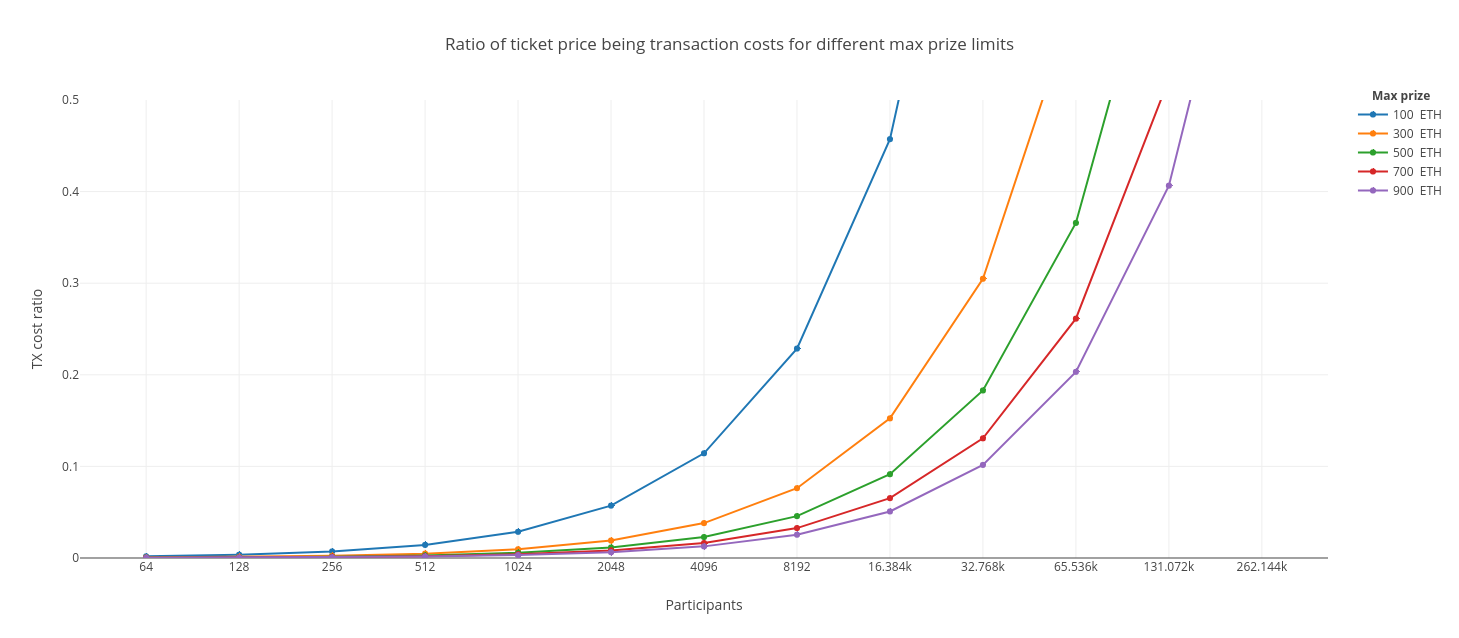
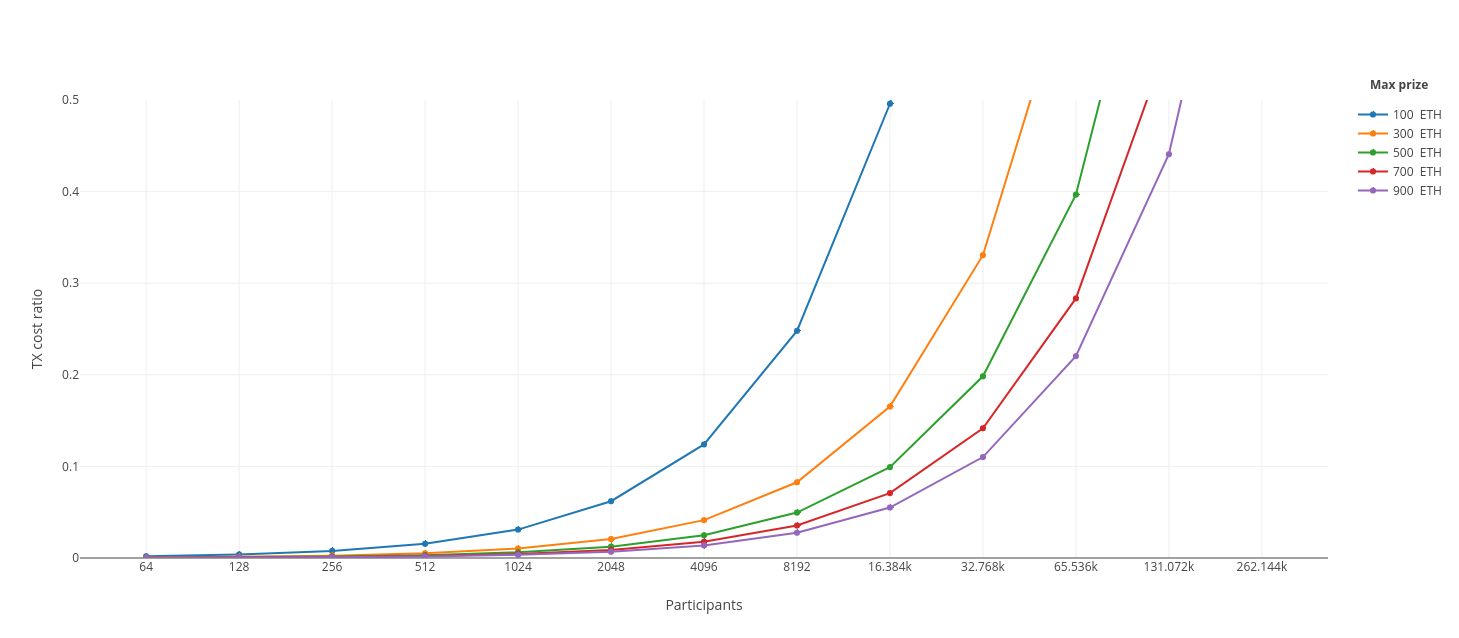
Update document to reflect using default winner in matches.

diff --git a/inc/3-implementation/1-outline.tex b/inc/3-implementation/1-outline.tex
@@ -13,7 +13,7 @@ Say we have Alice and Bob conducting a digital coin toss with commitments $C_A$ 
 
 \begin{figure}[htbp]
   \centering
-  \includesvg[width=\columnwidth]{figures/digital_coin_toss_flow.svg}
+  \includesvg[width=\columnwidth]{figures/digital_coin_toss_default_winner_flow.svg}
   \caption{Flowchart of a digital coin toss}
   \label{fig:digital-coin-toss-flow}
 \end{figure}
@@ -21,9 +21,9 @@ Say we have Alice and Bob conducting a digital coin toss with commitments $C_A$ 
 \subsubsection{Tournament of coin tosses}
 A digital coin toss can determine a winner out of two players, but can we use the same mechanism to determine a winner when there are more than two participants? We can construct a tournament of matches where the winner of each match is determined by a digital coin toss. The tournament can be represented as a full binary tree where the root node is the final match, whose winner is the winner of the entire tournament. Winning any other match will make one advance to a match one step closer to the final match. The players of each match in an internal node is determined by the winners from each of its two children. Participants in the tournament are represented as an ordered set, and each participant is assigned as a player to exactly one leaf node match. 
 
-Such a tournament will have $N=2^L$ players where $L$ is the height of the binary tree representing the tournament. There will be $\frac{N}{2}$ leaf node matches and $N-1$ matches in total. We call matches with the same height in the binary tree \emph{levels} in the tournament. Matches with the same level can be played concurrently and independent of each other, but internal matches of level $l$ cannot be played before all matches in level $l-1$ are determined.
+Such a tournament will have $N=2^L$ players where $L$ is the height of the binary tree representing the tournament. There will be $\frac{N}{2}$ leaf node matches and $N-1$ matches in total. We call matches with the same height in the binary tree \emph{levels} in the tournament. Matches with the same level can be played concurrently and independently of each other, but internal matches of level $l$ cannot be played before all matches in level $l-1$ are determined.
 
-It may be the case that one or both players in a match fail to complete the digital coin toss in a match. Matches of each level in the tournament will be initialized with global time limits for when players have to have completed a certain procedure, such as making a commitment or reveal. If only one of the players fails to e.g. reveal their secret before the relevant time limit, that will be interpreted as a forfeiture, and the other player will win the match. If both players fail to complete the same procedure, e.g. if neither player makes a commitment before the commitment time limit, the match will have an undefined winner. If the final match has an undefined winner, the tournament will also have an undefined winner. If the match is not the final match, a match in the next level can have one player who is undefined. In that case, the only determined player will win by default.
+It may be the case that one or both players in a match fail to complete the digital coin toss in a match. Matches of each level in the tournament will be initialized with global time limits for when players have to have completed a certain procedure, such as making a commitment or reveal. If only one of the players fails to e.g. reveal their secret before the relevant time limit, that will be interpreted as a forfeiture, and the other player will win the match. If both players fail to complete the same procedure, e.g. if neither player makes a commitment before the commitment time limit, a default winner will be selected to ensure each match has a defined winner by the last time limit. The default winner behaviour makes sure that the lottery will always have a defined winner, but will not affect an honest player who follows the coin toss protocol.
 
 \begin{figure}[htbp]
   \centering
@@ -37,7 +37,7 @@ It may be the case that one or both players in a match fail to complete the digi
 \subsubsection{Why the tournament is not deterministic}  % Because of time outs
 It's worth taking a moment to consider the implications of the timeout conditions in the tournament. Ideally, both players in each match will perform the digital coin toss. Since the secrets in the coin toss are committed to, if we assume both secrets will be revealed, there is just one possible outcome of the match. However, either one player fails to reveal their secret by the timeout, then the other player will win. The consequence of this being that a match is not deterministic when commitments are made. Only when both players have reveal their secrets or the timeout happens can the result be determined. 
 
-This means that even if all players commit to secrets for each level of the tournament prior to playing a single match, any player can actually end up winning independently of the secrets as it can be up to who times out in which matches. Note that if we assume that all players will perform the coin toss successfully, then the tournament is completely deterministic once all commitments have been made, and there is just one single valid winner for that particular ordered set of players and commitments. If that were the case, we could even use a single commitment and secret from each player that would be used for each level of the tournament. If players can choose whether to reveal their secret or not, we cannot reuse secrets from one match to another, as will be demonstrated in the following paragraph.
+This means that even if all players commit to secrets for each level of the tournament prior to playing a single match, any player can actually end up winning independently of the secrets as the outcome can depend on who times out in which matches. Note that if we assume that all players will perform the coin toss successfully, then the tournament is completely deterministic once all commitments have been made, and there is just one single valid winner for that particular ordered set of players and commitments. If that were the case, we could even use a single commitment and secret from each player that would be used for each level of the tournament. If players can choose whether to reveal their secret or not, we cannot reuse secrets from one match to another, as will be demonstrated in the following below.
 
 \subsubsection{How to exploit a non-deterministic tournament}  % Why we need different commitments for each level
 In a practical implementation of the tournament, we would have to have timeouts to avoid the protocol halting. We must also assume that players can be colluding. In a collusion, each player would know each others secret, so they would know who would win against whom. If we simply used the same secret for matches in all levels, then even if the result is unpredictable before all players have revealed, a collusion could wait for all the non-colluding players to reveal, then tactically choose which players of the collusion should reveal, so that they are guaranteed to win matches in subsequent levels. Because of this, unless we can assume no collusion, we must require players to commit to different secrets in each match, and by that make the protocol interactive.
@@ -49,7 +49,7 @@ We implement a lottery that uses a tournament of coin tosses to fairly determine
 \subsubsection{Set up phase}
 The tournament will be implemented as separate match contracts that each represent a match in the tournament tree. The matches are initialized with data that allows them to determine who its players are. Internal matches are initialized with two references to contracts in the previous level of the tournament, and it will call a \texttt{getWinner()} method from these contracts to determine who its players are. Leaf node matches, which we will call first level matches, are initialized with an index that corresponds to a player in the ordered set of players. The leaf node matches have a reference to a master contract, which they will call to retrieve the players that are assigned to the match.
 
-While the match contracts form a tournament on their own, we need a contract to keep track of the state of the lottery and handle things such as taking deposits, maintaining the set of participants, and verifying who can claim the prize. This is a separate contract called the master contract. The master contract is initialized with the number of participants the lottery can have, which must be a power of 2, a price participants must pay in order to join, a start time $t_{start}$, and an end time $t_{final}$. To be able to verify the winner of the tournament, the master contract needs a reference to the final match contract. The entire lottery is set up by first deploying the master contract without a reference to the final match, as it has not been deplyed yet. The match contracts will be deployed level for level, starting with the first level contracts. When the final match is deployed, the lottery will be initialized by setting the final match in the master contract. 
+While the match contracts form a tournament on their own, we need a contract to keep track of the state of the lottery and handle things such as taking deposits, maintaining the set of participants, and verifying who can claim the prize. This is a separate contract called the master contract. The master contract is initialized with the number of participants the lottery can have, which must be a power of 2, a price participants must pay in order to join, a start time $t_{start}$, and an end time $t_{final}$. To be able to verify the winner of the tournament, the master contract needs a reference to the final match contract. The entire lottery is set up by first deploying the master contract without a reference to the final match, as it has not been deployed yet. The match contracts will be deployed level for level, starting with the first level contracts. When the final match is deployed, the lottery will be initialized by setting the final match in the master contract. 
 
 
 \subsubsection{Deposit phase}
@@ -58,9 +58,9 @@ Once the master contract and all the match contracts are set up correctly, any p
 Deposits will be possible as long as the lottery is not full and a start time is not yet reached. The lottery is full once the amount of deposits has reached the predefined number of participants. If the lottery is not full by the start time, the lottery will not be able to start. If the lottery is full by the start time, the lottery moves into the next phase.
 
 \subsubsection{Playing phase}
-Each leaf node match contract should have a time $t_{commit}$ which is equal to the start time of the lottery by when players can make commitments to the digital coin toss. $t_{reveal}$ is some time later when players can make a reveal transaction with their secret which is validated in the match smart contract. The last time field of a match contract is $t_{play}$ by when it's no longer possible to reveal and the match is determined. When the match is determined, the method \texttt{getWinner()} will return either a player address or the null address. If the current time is less than $t_{play}$, this method will raise an error.
+Each leaf node match contract should have a time $t_{commit}$ which is equal to the start time of the lottery by when players can make commitments to the digital coin toss. $t_{reveal}$ is some time later when players can make a reveal transaction with their secret which is validated in the match smart contract. The last time field of a match contract is $t_{play}$ by when it's no longer possible to reveal and the match is determined. When the match is determined, the method \texttt{getWinner()} will return a player address. If the current time is less than $t_{play}$, this method will raise an error. If there is a stalemate in the match, i.e. neither player makes a commitment, the \texttt{getWinner()} method will return a default winner. The default winner is the first player in the match, i.e. the left player in the tournament tree. 
 
 Internal match nodes should have a $t_{commit}$ equal to the $t_{play}$ limit of matches in the level below. As mentioned, each internal match node has a reference to matches from the previous levels from where the winning player is eligible to play the current match. This way the tournament proceeds level by level with time limits defined at contract initialization. Players will need to make transactions to the match contracts which validate the sender and the inputs. The final match will be played just like any other match, but the master contract will have a reference to this match, so that it can validate the winner.
 
 \subsubsection{Withdrawal phase}
-Players can send a transaction to the withdraw function of the master contract. If the final match has a winner, it will transfer the balance of the master contract to the sender after validating that the sender is the same account as the winner. If a time limit $t_{final}$ is reached, and the winner of the final match is not determined, players can withdraw their initial deposit, as the lottery is considered undetermined.
+Players can send a transaction to the withdraw function of the master contract. If the final match has a winner, it will transfer the balance of the master contract to the sender after validating that the sender is the same account as the winner. If the $tStart$ time limit has passed and the lottery is not full, the lottery did not get enough players to start. In this case, the \texttt{withdraw()} method will return the deposit to the sender if they have made a deposit.

diff --git a/inc/4-results/1-gas-usage.tex b/inc/4-results/1-gas-usage.tex
@@ -8,24 +8,24 @@
 \begin{tabular}{|l|l|l|l|}
 \hline
 
-transaction & first design & second design & \# \\ \hline
-create LotteryMaster & 1176518 & 1176518 & 1 \\ \hline
+transaction & single match & dual match & \# \\ \hline
+create LotteryMaster & 1087189 & 1087125 & 1 \\ \hline
 setFinalMatch & 49282 & 49282 & 1 \\ \hline
-create LotteryMatch & 2148144 & - & N-1 \\ \hline
-create FirstLevelMatch & - & 967850 & N/2 \\ \hline
-create InternalMatch & - & 991533 & (N/2)-1 \\ \hline
-initFirstLevelMatch & 73877 & - & N/2 \\ \hline
-initInternalMatch & 71038 & - & (N/2)-1 \\ \hline
-deposit & 74891 & 82616 & N \\ \hline
-commit & 83394 & 77272 & 2(N-1) \\ \hline
-reveal & 43038 & 42885 & 2(N-1) \\ \hline
-withdraw & 38796 & 32998 & 1 \\ \hline
+create LotteryMatch & 2472237 & - & N-1 \\ \hline
+create FirstLevelMatch & - & 1693728 & N/2 \\ \hline
+create InternalMatch & - & 1697819 & (N/2)-1 \\ \hline
+initFirstLevelMatch & 74700 & - & N/2 \\ \hline
+initInternalMatch & 71034 & - & (N/2)-1 \\ \hline
+deposit & 73925 & 73925 & N \\ \hline
+commit & 83548 & 88668 & 2(N-1) \\ \hline
+reveal & 43035 & 42882 & 2(N-1) \\ \hline
+withdraw & 39277 & 39177 & 1 \\ \hline
 
 \end{tabular}
 \end{table}
 
 \noindent
-Table \ref{tab:gas-usage} is a list of transactions made in a simulation with 64 participants. The left column describes the transaction made, while the right column is the number of transactions of this type needed to successfully play a lottery. The middle columns are the average gas usage for each transaction for two different lottery designs. In the first design, we use a single match contract for all types of matches whether they are first level or internal. In the second design, we have two separate match contracts for first level matches and internal matches. 
+Table \ref{tab:gas-usage} is a list of transactions made in a simulation with 256 participants. The left column describes the transaction made, while the right column is the number of transactions of this type needed to successfully play a lottery. The middle columns are the average gas usage for each transaction for two different lottery designs. In the first design, we use a single match contract for all types of matches whether they are first level or internal. In the second design, we have two separate match contracts for first level matches and internal matches. 
 
 \begin{table}[h]
 \centering
@@ -35,10 +35,10 @@ Table \ref{tab:gas-usage} is a list of transactions made in a simulation with 64
 \hline
 
 N & Gas & ETH & USD & Gas / N & ETH / N & USD / N \\ \hline
-32 & 70065854 & 0,105 & 18,50 & 2189558 & 0,003284 & 0,578 \\ \hline
-64 & 141139966 & 0,212 & 37,26 & 2205312 & 0,003308 & 0,582 \\ \hline
-128 & 283296254 & 0,425 & 74,79 & 2213252 & 0,003320 & 0,584 \\ \hline
-256 & 567601662 & 0,851 & 149,85 & 2217194 & 0,003326 & 0,585 \\ \hline
+32 & 80023408 & 0.120 & 21.13 & 2500732 & 0.003751 & 0.660 \\ \hline
+64 & 161466448 & 0.242 & 42.63 & 2522913 & 0.003784 & 0.666 \\ \hline
+128 & 324354704 & 0.487 & 85.63 & 2534021 & 0.003801 & 0.669 \\ \hline
+256 & 650139920 & 0.975 & 171.64 & 2539609 & 0.003809 & 0.670 \\ \hline
 
 \end{tabular}
 \end{table}
@@ -51,10 +51,10 @@ N & Gas & ETH & USD & Gas / N & ETH / N & USD / N \\ \hline
 \hline
 
 N & Gas & ETH & USD & Gas / N & ETH / N & USD / N \\ \hline
-32 & 80339905 & 0,121 & 21,21 & 2510622 & 0,003766 & 0,663 \\ \hline
-64 & 161879965 & 0,243 & 42,74 & 2529374 & 0,003794 & 0,668 \\ \hline
-128 & 324963381 & 0,487 & 85,79 & 2538776 & 0,003808 & 0,670 \\ \hline
-256 & 651135921 & 0,977 & 171,90 & 2543500 & 0,003815 & 0,671 \\ \hline
+32 & 90297000 & 0.135 & 23.84 & 2821781 & 0.004233 & 0.745 \\ \hline
+64 & 182203802 & 0.273 & 48.10 & 2846934 & 0.004270 & 0.752 \\ \hline
+128 & 366020720 & 0.549 & 96.63 & 2859537 & 0.004289 & 0.755 \\ \hline
+256 & 733661484 & 1.100 & 193.69 & 2865865 & 0.004299 & 0.757 \\ \hline
 
 \end{tabular}
 \end{table}
@@ -67,10 +67,10 @@ N & Gas & ETH & USD & Gas / N & ETH / N & USD / N \\ \hline
 \hline
 
 N & Gas & ETH & USD & Gas / N & ETH / N & USD / N \\ \hline
-32 & 49066037 & 0,074 & 12,95 & 1533314 & 0,002300 & 0,405 \\ \hline
-64 & 98473301 & 0,148 & 26,00 & 1538645 & 0,002308 & 0,406 \\ \hline
-128 & 197288085 & 0,296 & 52,08 & 1541313 & 0,002312 & 0,407 \\ \hline
-256 & 394917077 & 0,592 & 104,26 & 1542645 & 0,002314 & 0,407 \\ \hline
+32 & 53690344 & 0.081 & 14.17 & 1677823 & 0.002517 & 0.443 \\ \hline
+64 & 107956984 & 0.162 & 28.50 & 1686828 & 0.002530 & 0.445 \\ \hline
+128 & 216490200 & 0.325 & 57.15 & 1691330 & 0.002537 & 0.447 \\ \hline
+256 & 433556696 & 0.650 & 114.46 & 1693581 & 0.002540 & 0.447 \\ \hline
 
 \end{tabular}
 \end{table}
@@ -83,10 +83,10 @@ N & Gas & ETH & USD & Gas / N & ETH / N & USD / N \\ \hline
 \hline
 
 N & Gas & ETH & USD & Gas / N & ETH / N & USD / N \\ \hline
-32 & 59273154 & 0,089 & 15,65 & 1852286 & 0,002778 & 0,489 \\ \hline
-64 & 119076700 & 0,179 & 31,44 & 1860573 & 0,002791 & 0,491 \\ \hline
-128 & 238682928 & 0,358 & 63,01 & 1864710 & 0,002797 & 0,492 \\ \hline
-256 & 477895776 & 0,717 & 126,16 & 1866780 & 0,002800 & 0,493 \\ \hline
+32 & 63896706 & 0.096 & 16.87 & 1996772 & 0.002995 & 0.527 \\ \hline
+64 & 128557218 & 0.193 & 33.94 & 2008707 & 0.003013 & 0.530 \\ \hline
+128 & 257880692 & 0.387 & 68.08 & 2014693 & 0.003022 & 0.532 \\ \hline
+256 & 516523956 & 0.775 & 136.36 & 2017672 & 0.003027 & 0.533 \\ \hline
 
 \end{tabular}
 \end{table}
@@ -95,7 +95,7 @@ N & Gas & ETH & USD & Gas / N & ETH / N & USD / N \\ \hline
 Table \ref{tab:org-gas-usage-single} and \ref{tab:total-gas-usage-single} show the gas usage of only setting up and setting and playing a full lottery, respectively, for the design with a single type of match contract. Table Table \ref{tab:org-gas-usage-dual} and \ref{tab:total-gas-usage-dual} show the gas usage for the design with two types of match contracts, also showing for only setting up and setting up and playing a full lottery.
 The dual match design compared to the single match design uses 44\% less gas to set up, and 36\% less gas to set up and play. As we can see in Table \ref{tab:gas-usage}, the savings come from deploying the match contracts. This is because we deploy less bytecode and declare fewer variables with the dial match design.
 
-As was expected, the gas usage scales linearly with the number of participants. The gas usage increases by a miniscule amount per participant. For simulating the entire lifecycle of a lottery, this can be explained by the \texttt{deposit()} function which keeps expanding a dynamic array as players join.
+As was expected, the gas usage scales linearly with the number of participants. The gas usage increases by a minuscule amount per participant. For simulating the entire lifecycle of a lottery, this can be explained by the \texttt{deposit()} function which keeps expanding a dynamic array as players join.
 
 We see that by far most gas is spent on deploying each individual match contract. This cost was significantly decreased by splitting the match contracts into two types, the \texttt{FirstLevelMatch} and \texttt{InternalMatch}. This is because each variable and each bit of bytecode contributes to the gas usage when deploying contracts. Decreasing the number of methods, decreasing the number and size of variables, and decreasing the number of instructions, i.e. lines of code, will decrease the gas usage. Since each match contract is not interacted with much – at most four times, two commits and two reveals – it seems wasteful to spend so much gas on deploying them on the blockchain permanently. This is a well-known issue, and it is possible to deduplicate common behaviour by using patterns involving \emph{library contracts} and \emph{proxy contracts}. \cite{lu_solidity_2018} demonstrate that gas usage for deploying contracts can decrease as much as 50\% by using these patterns. It could also be possible to do away with the dedicated match contracts completely, and handle everything in the master contract, but we leave that to future work or a practical implementation.
 

diff --git a/inc/3-implementation/2-code.tex b/inc/3-implementation/2-code.tex
@@ -3,7 +3,7 @@
 
 The only smart contracts used in the lottery are the master contract and the two types of match contracts – first level match contracts and internal match contracts, all of which are implemented as Solidity programs. Solidity is a high level language that compiles to EVM bytecode. Deploying a smart contract on Ethereum is done by making a special deployment transaction that contains the contract's compiled bytecode. A deployed contract is identified by a unique address that is assigned when the deployment transaction is made.
 
-Setting up the lottery is a multi step process that must happen in a specific order. First, the master contract needs to be deployed, then the first level match contracts which are all initialized with the address of the master contract are deployed. Internal match contracts from the same level in the tournament tree can be deployed at the same time, but match contracts of each level need a reference to matches from the previous level, which means matches from each level must be deployed in sequence. In order to manage this process, we have made a script to automate it. The smart contracts and deployment scripts also have associated unit tests and a simulation suite.
+Setting up the lottery is a multi-step process that must happen in a specific order. First, the master contract needs to be deployed, then the first level match contracts which are all initialized with the address of the master contract are deployed. Internal match contracts from the same level in the tournament tree can be deployed at the same time, but match contracts of each level need a reference to matches from the previous level, which means matches from each level must be deployed in sequence. In order to manage this process, we have made a script to automate it. The smart contracts and deployment scripts also have associated unit tests and a simulation suite.
 
 The listings included here have been truncated somewhat and are not necessarily compilable code. See the Github repository~\footnote{\url{https://github.com/viktorfa/lottery-truffle}} and appendix for full working code.
 
@@ -12,7 +12,6 @@ The listings included here have been truncated somewhat and are not necessarily 
 
 The constructor of this contract takes the number of participants, the price of participation, a start time and an end time. It is only possible to make a deposit after the final match of the lottery is set. The \texttt{finalMatch} field is a reference to a match contract which is the apex of the tournament tree of matches. This field cannot be set on deployment, as the matches in the tournament need a reference to a master contract, and the master contract needs a reference to a match contract. Due to this circular dependency, either all the matches of the first level or the single master contract need a two-step initialization. Since the gas usage of a single transaction is less than that of many, we choose to have the two-step initialization in the single master contract.
 
-By the time set in \texttt{tFinal}, all the matches in the tournament are supposed to be played. If after that time, there is no winner of the final match, then players will be able to withdraw their deposit, as the lottery was unable to complete. If the final match does return an address, then the owner of that address will be able to withdraw the entire balance of the master contract.
 
 \lstinputlisting[language={Solidity}, caption={Lottery master contract}, label={lst:LotteryMaster.sol}]{listings/LotteryMaster.sol}
 
@@ -22,9 +21,9 @@ Due to slightly different behaviour between matches of the first level of the to
 
 A match has two players referenced by address in the \texttt{alice} and \texttt{bob} fields. By a start time \texttt{tCommit}, the players can set a commitment of bits with the \texttt{commit()} method. Another time limit is set in \texttt{tReveal} which is when making commitments is no longer possible, but revealing the secret committed to is possible. This is done with the \texttt{reveal()} method which verifies that the secret is the preimage of the commitment, and stores the secret in storage. The final time limit is \texttt{tPlay}, after which players can no longer reveal secrets. By the final limit the outcome of the match is guaranteed to be determined. 
 
-The \texttt{getWinner()} method performs the digital coin toss if both players have revealed their secrets. If either player has performed more steps than the other player, e.g. made a commitment while the other has not, the player who has done the most steps will win. If neither player has revealed their secrets, and no player has performed more steps than the other, then the winner of the match will be returned as the null address.
+The \texttt{getWinner()} method performs the digital coin toss if both players have revealed their secrets. If either player has performed more steps than the other player, e.g. made a commitment while the other has not, the player who has done the most steps will win. If neither player has revealed their secrets, and no player has performed more steps than the other, then the winner of the match will be the left player by default.
 
-A match has a way to determine which players are eligible to play it. This is handled differently in \texttt{FirstLevelMatch} and \texttt{InternalMatch}. The former is initialized with an index and a reference to a \texttt{LotteryMaster} contract. Each player in the master contract is indexed so that each player is paired with another who is their opponent in the match of the first level. The latter is initialized with a reference to two matches, \texttt{left} and \texttt{right}, of the previous level in the tournament. These matches will return their winner in the \texttt{getWinner()} method, which is used to determine the players of the match in the next level. If a previous match returns the null address as the winner as either left or right, then the match will be won by the only player if they just perform the commit step.
+A match has a way to determine which players are eligible to play it. This is handled differently in \texttt{FirstLevelMatch} and \texttt{InternalMatch}. The former is initialized with an index and a reference to a \texttt{LotteryMaster} contract. Each player in the master contract is indexed so that each player is paired with another who is their opponent in the match of the first level. The latter is initialized with a reference to two matches, \texttt{left} and \texttt{right}, of the previous level in the tournament. These matches will return their winner in the \texttt{getWinner()} method, which is used to determine the players of the match in the next level. 
 
 \lstinputlisting[language={Solidity}, caption={Common code for lottery match}, label={lst:CommonMatchCode.sol}]{listings/CommonMatchCode.sol}
 \lstinputlisting[language={Solidity}, caption={Lottery first level match contract}, label={lst:FirstLevelMatch.sol}]{listings/FirstLevelMatch.sol}

diff --git a/inc/4-results/5-scalability.tex b/inc/4-results/5-scalability.tex
@@ -81,12 +81,12 @@ There are plans for Ethereum to increase the number of transactions it can handl
 
 \subsection{Transaction costs and max prize}
 
-Due to the size of the prize increasing linearly with the number of participants, a censorship attack by miners gets more profitable the more participants there are, which puts a limit on scalability. Even if a censorship attack is unlikely to succeed, it cannot be ignored when it can give high rewards to dishonest miners. Since the lottery prize is decided by the ticket price as well as the number of participants, the ticket price can be set so low that the total prize is not high enough to encourage manipulation by miners. The ticket price is however bounded to minimum value where the transaction costs for participating exceed the ticket price itself.
+Due to the size of the prize increasing linearly with the number of participants, a censorship attack by miners gets more profitable the more participants there are, which puts a limit on scalability. Even if a censorship attack is unlikely to succeed, it cannot be ignored when it can give high rewards to dishonest miners. Since the lottery prize is decided by the ticket price as well as the number of participants, the ticket price can be set so low that the total prize is not high enough to encourage manipulation by miners. The ticket price is however bounded to minimum value where the transaction costs for participating exceed the ticket price itself. Using the transaction costs found in \ref{sec:gas}, various charts illustrate the scalability of our implementation of the lottery.
 
 Figure \ref{fig:cost-ratio-chart} shows the ratio of the ticket price going to transaction costs as a function of number of participants and a max tolerable prize. Figure \ref{fig:prize-chart} show the prize for the lottery for a given number of participants and ratio of transactions costs to ticket price. Both assume a gas price of 1.5 gwei.
 The charts show us the maximum scale of the lottery under different conditions for maximum tolerable prize and ticket price going to transaction costs. With the generous assumptions that the transaction costs can be as much as 40\% of the ticket price, and the maximum prize being 900 ether, this scalability limit approaches that of the above analysis of transaction throughput.
 
-Figure \ref{fig:price-chart} shows the transaction cost to ticket price ratio on the left y-axis which the thick blue line plots. The right y-axis shows the total prize for a given ticket price and is plotted by multiple thin lines that each represent a specific number of participants. The chart gives some idea of which tickets prices can be used for different amounts of participants and different maximum prizes. For instance, if a cost ratio of 0.1 is required, the thick blue line indicates that the ticket price will be slightly less than 0.3 ETH. At that price, only lotteries with less than $32768=2^{15}$ will have a prize of less than 1000 ETH. If we start from the other direction and consider a lottery with $8192=2^{13}$ participants, plotted by the thin pink line, it can handle ticket prices of slightly more than 0.1 ETH if the prize is to be less than 1000 ETH, and a ticket price of 0.06 if the prize is to be below 500 ETH. Furthermore, it shows that lotteries with few participants can handle quite high ticket prices without risking too much exposure by a high prize, while lotteries with more than $2^{16}$ participants can barely handle ticket prices so low that the cost ratio is nearly prohibitive unless a very large prize is acceptable.
+Figure \ref{fig:price-chart} shows the transaction cost to ticket price ratio on the left y-axis which the thick blue line plots. The right y-axis shows the total prize for a given ticket price and is plotted by multiple thin lines that each represent a specific number of participants. The chart gives some idea of which tickets prices can be used for different amounts of participants and different maximum prizes. For instance, if a cost ratio of 0.1 is required, the thick blue line indicates that the ticket price will be 0.3 ETH. At that price, only lotteries with less than $32768=2^{15}$ will have a prize of less than 1000 ETH. If we start from the other direction and consider a lottery with $8192=2^{13}$ participants, plotted by the thin pink line, it can handle ticket prices of slightly more than 0.1 ETH if the prize is to be less than 1000 ETH, and a ticket price of 0.06 if the prize is to be below 500 ETH. Furthermore, it shows that lotteries with few participants can handle quite high ticket prices without risking too much exposure by a high prize, while lotteries with more than $2^{16}$ participants can barely handle ticket prices so low that the cost ratio is nearly prohibitive unless a very large prize is acceptable.
 
 The calculations in the charts do not account for the organizer probably taking some portion of the prize as a fee. Accounting for that would reduce the total prize, but would correspondingly increase the cost of buying tickets from the participants' perspective.
 

diff --git a/inc/4-results/2-ticket-price.tex b/inc/4-results/2-ticket-price.tex
@@ -6,8 +6,8 @@ We operate with a gas price of 1.5 gwei, which at the time of writing is conside
 Most common casino games have a house edge of about 1-10\%~\cite{walsh_houses_nodate}, while large lotteries often have a higher house edge of 40-50\%~\cite{shackleford_house_nodate}. We therefore consider the organizer taking a 10\% fee of the deposits reasonable for both the players and the organizer. The organizer risks not enough players joining the lottery and thus losing all the ether needed to set up the lottery. 
 
 By setting a ratio $r$ of what the organizer will take of the prize, and a gas price $price_{gas}$, we can find a minimum ticket price $price_{ticket}$ by using the gas usage $usage_{gas}$ from Table \ref{tab:org-gas-usage-dual} for setting up the lottery per player. The expression is simply $price_{ticket}=\frac{price_{gas} \cdot usage_{gas}}{r}$
-In our design, a 10\% organizer fee and a 1.5 gwei gas price, this results in a minimum viable price of each ticket at about 0.023 ether, which at the time of writing is about 5 USD. That's a price we consider acceptable, even though the dollar price can change by at least an order of magnitude within months, as the ether price fluctuates a lot. 
+In our design, a 10\% organizer fee and a 1.5 gwei gas price, this results in a minimum viable price of each ticket at about 0.026 ether, which at the time of writing is about 5 USD. That's a price we consider acceptable, even though the dollar price can change by at least an order of magnitude within months, as the ether price fluctuates a lot. 
 
-For the second design on average, a player spends 82616 gas to join, and for each level, assuming they commit and reveal, 120157 gas. A tournament has $N=2^L$ players and $L$ levels. We index levels of the tournament starting from the root where $l=0$, and up to the first level where $l=L-1$. For a player at each level, the probability of winning is $\frac{1}{2^{l+1}}$. If we assume the prize is 100\% of the deposits, the prize will be $price \cdot N=price \cdot 2^L$. The first lottery level is $L-1$. For it to be worth playing the first match, the price must be so high that $prize \cdot \frac{1}{2^L} > cost_{tx}(L-1)$ or $2^L \cdot price \cdot \frac{1}{2^L} > cost_{tx}(L-1)$. The inequality simply solves as $price > cost_{tx}(L-1)$, which means that if the gas price is 1.5 gwei and $L=10$, the ticket cost must be at least $120157 \cdot 10 \cdot 1.5 \mathrm{e}{-9}=0.0018 ether$ or 0.32 USD. 
+For the second design on average, a player spends 73925 gas to join, and for each level, assuming they commit and reveal, 131550 gas. A tournament has $N=2^L$ players and $L$ levels. We index levels of the tournament starting from the root where $l=0$, and up to the first level where $l=L-1$. For a player at each level, the probability of winning is $\frac{1}{2^{l+1}}$. If we assume the prize is 100\% of the deposits, the prize will be $price \cdot N=price \cdot 2^L$. The first lottery level is $L-1$. For it to be worth playing the first match, the price must be so high that $prize \cdot \frac{1}{2^L} > cost_{tx}(L-1)$ or $2^L \cdot price \cdot \frac{1}{2^L} > cost_{tx}(L-1)$. The inequality simply solves as $price > cost_{tx}(L-1)$, which means that if the gas price is 1.5 gwei and $L=10$, the ticket cost must be at least $131550 \cdot 10 \cdot 1.5 \mathrm{e}{-9}=0.002 ether$ or 0.35 USD. 
 
 This means that the cost of initializing the lottery, which is paid by the lottery organizer, is by far the most significant cost. If we use off-chain negotiation in the matches, the transaction cost will approximately be cut in half, as we only need one transaction from the winner for each match. When calculating a minimum viable price for participating in the lottery, we should therefore primarily consider the price to set up the lottery for the organizer and how much of the ticket income the organizer takes as a fee.

diff --git a/inc/4-results/6-analysis.tex b/inc/4-results/6-analysis.tex
@@ -22,8 +22,9 @@ Another possible solution is to have some matches consisting of three players in
 It is possible that there is a design in which a tournament with any amount of participants can be played fairly, but it would involve some considerable design changes from our lottery that is beyond the scope of this thesis.
 
 \subsection{Mitigating a censorship attack}
-\todo{It might be too hard to do something about this, actually.}
 
 A possible vulnerability in censorship of transactions was discovered. Even though the risk of a censorship attack is unknown, if we assume the possibility of a miner or collusion of miners with a majority hashing power, it would at some size of the lottery prize be in their economic interest to launch such an attack. A censorship attack is possible because of the time limits of matches, because a player unable to make transactions will lose. The time limits are however necessary to prevent a single participant halting the entire process. 
 
 A possible way of mitigating a censorship attack is to annul the result of the tournament if the winner won a certain fraction of their matches by forfeiture. This could possibly do some collateral damage in that an honest winner could risk being suspected of cheating. It could also make the off-chain negotiation mentioned earlier in this section impractical. 
+
+\todo{Not much is known about censorship attacks, and AFAIK, there is no historical precedent yet. We only know it's possible, so it should be a concern for everyone developing on a blockchain, but it's very hard to arrive at some hard numbers related to it.}

diff --git a/inc/1-introduction/_index.tex b/inc/1-introduction/_index.tex
@@ -76,7 +76,7 @@ Additional data from previous published papers are used when discussing results,
 
 \subsection{Data analysis}
 
-The data collected from simulations were of high quality and did not need preprocessing. The data will be presented in \ref{chap:results}, and is used as the basis for analyzing certain properties of our lottery implementation. 
+The data collected from simulations were of high quality and did not need preprocessing. The data will be presented in Chapter \ref{chap:results}, and is used as the basis for analyzing certain properties of our lottery implementation. 
 
 \section{Thesis structure}
 
